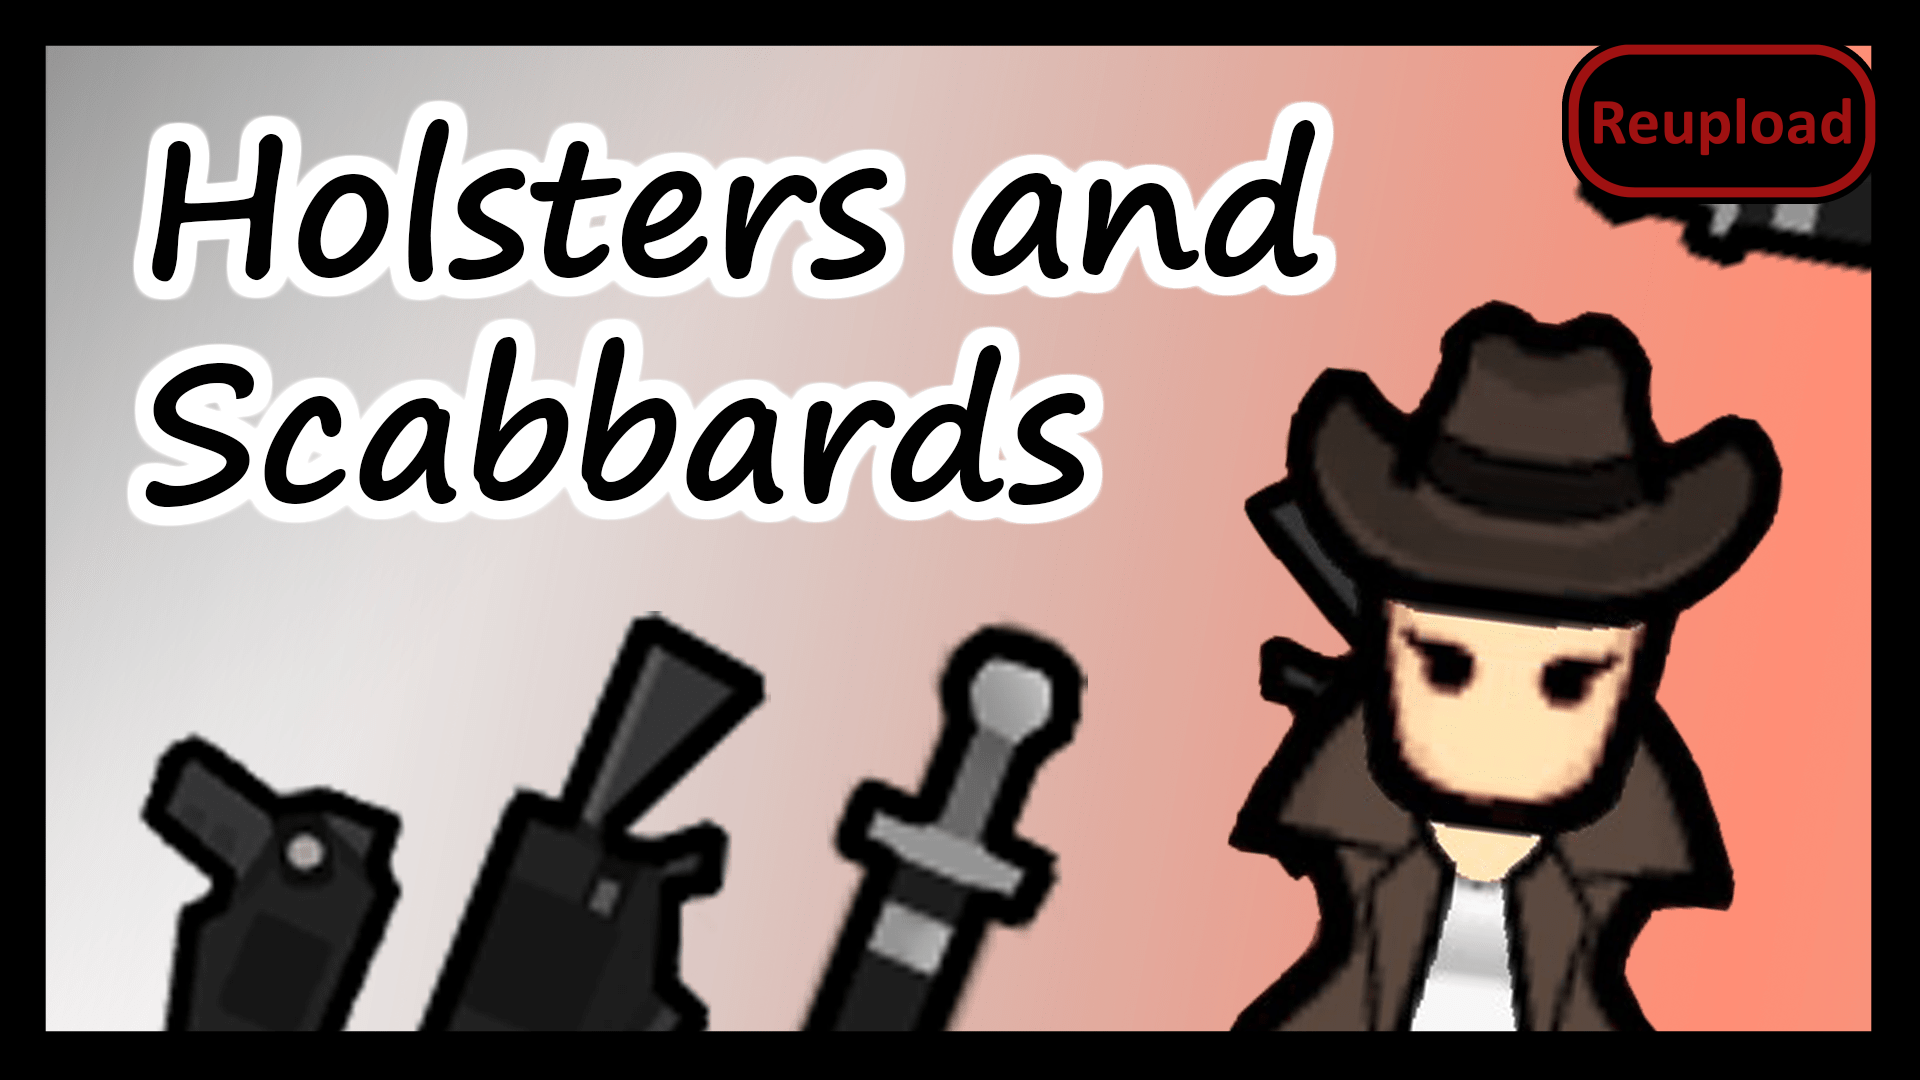
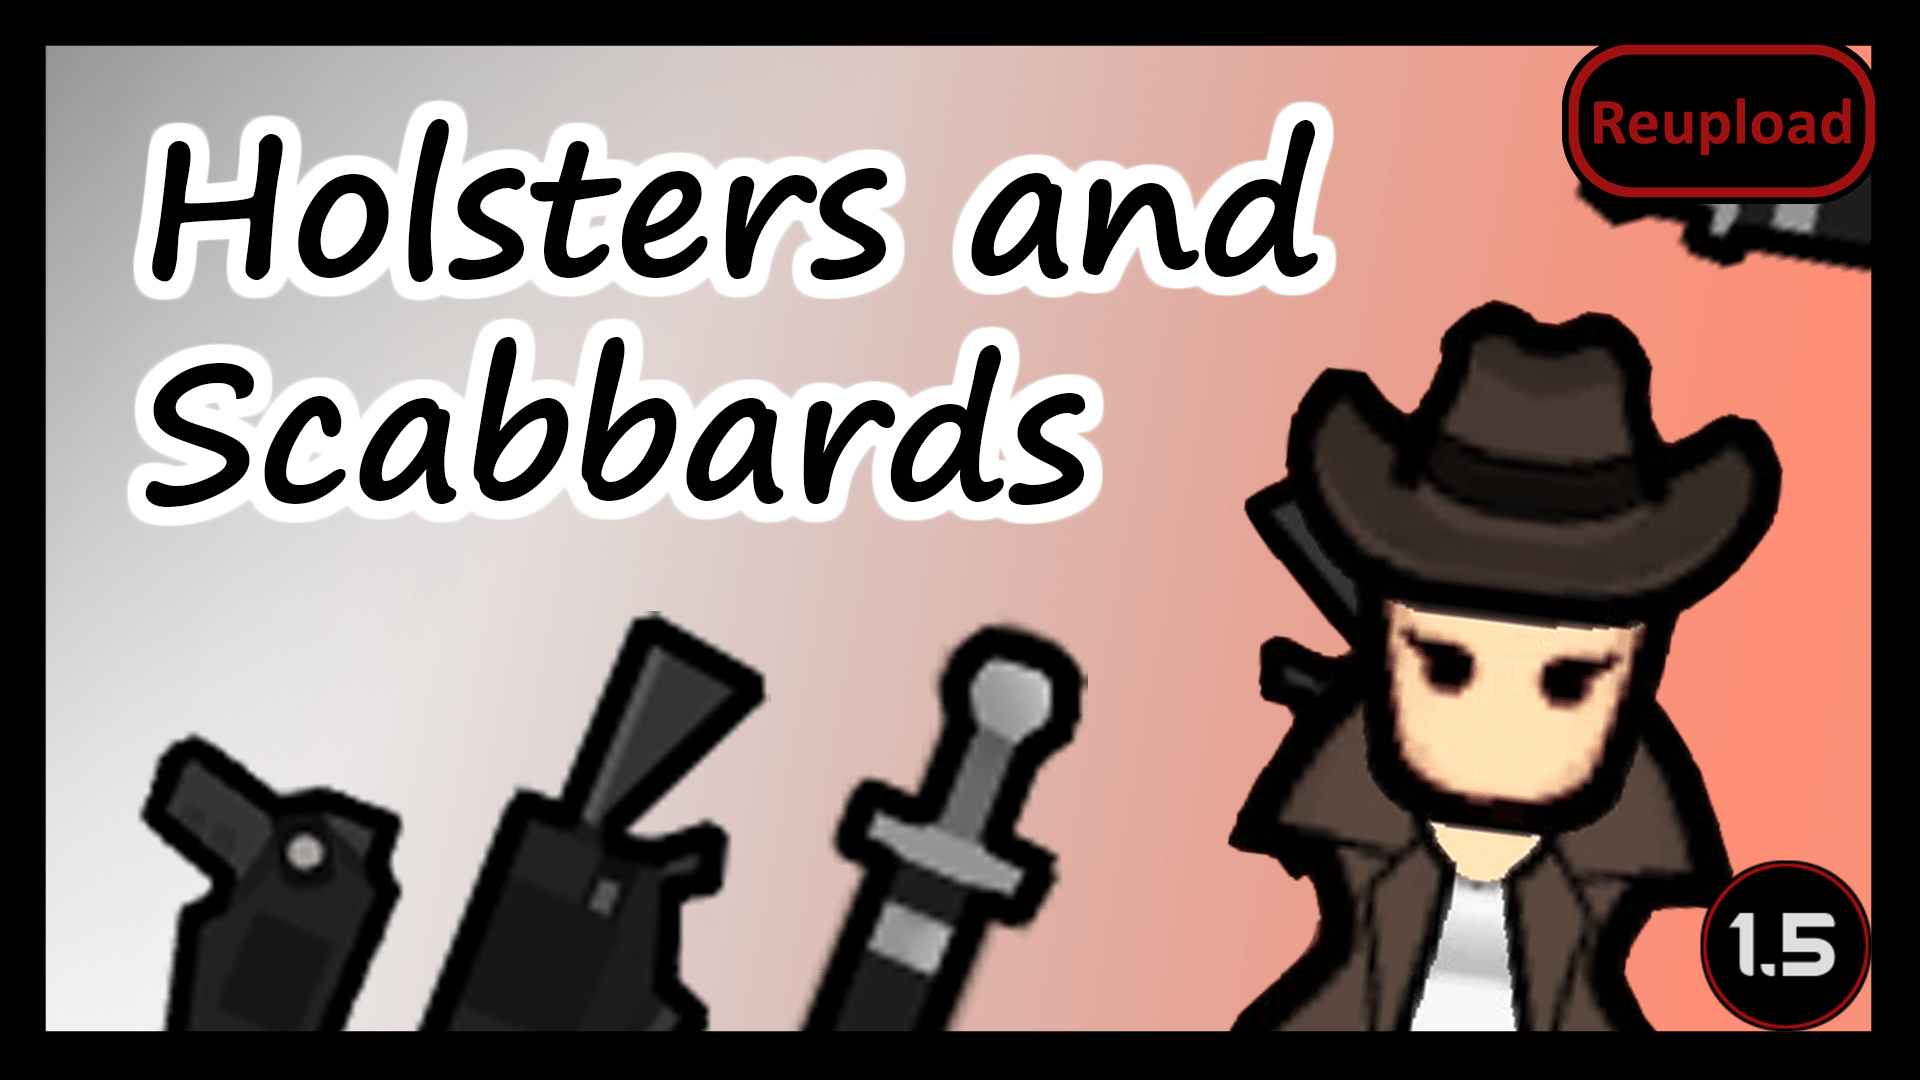
Mod updated for 1.5 and passed autotests

Changed region(s): [[0.875, 0.7944, 1.0, 0.9778]]

diff --git a/README.md b/README.md
@@ -45,11 +45,13 @@ https://steamcommunity.com/workshop/filedetails/?id=2199145969
 
 -  See if the the error persists if you just have this mod and its requirements active.
 -  If not, try adding your other mods until it happens again.
--  Post your error-log using https://steamcommunity.com/workshop/filedetails/?id=818773962]HugsLib and command Ctrl+F12
+-  Post your error-log using https://steamcommunity.com/workshop/filedetails/?id=818773962]HugsLib or the standalone https://steamcommunity.com/sharedfiles/filedetails/?id=2873415404]Uploader and command Ctrl+F12
 -  For best support, please use the Discord-channel for error-reporting.
 -  Do not report errors by making a discussion-thread, I get no notification of that.
 -  If you have the solution for a problem, please post it to the GitHub repository.
+-  Use https://github.com/RimSort/RimSort/releases/latest]RimSort to sort your mods
 
 
 
+https://steamcommunity.com/sharedfiles/filedetails/changelog/2561494007]![Image](https://img.shields.io/github/v/release/emipa606/HolstersAndScabbards?label=latest%20version&style=plastic&color=9f1111&labelColor=black)
 
